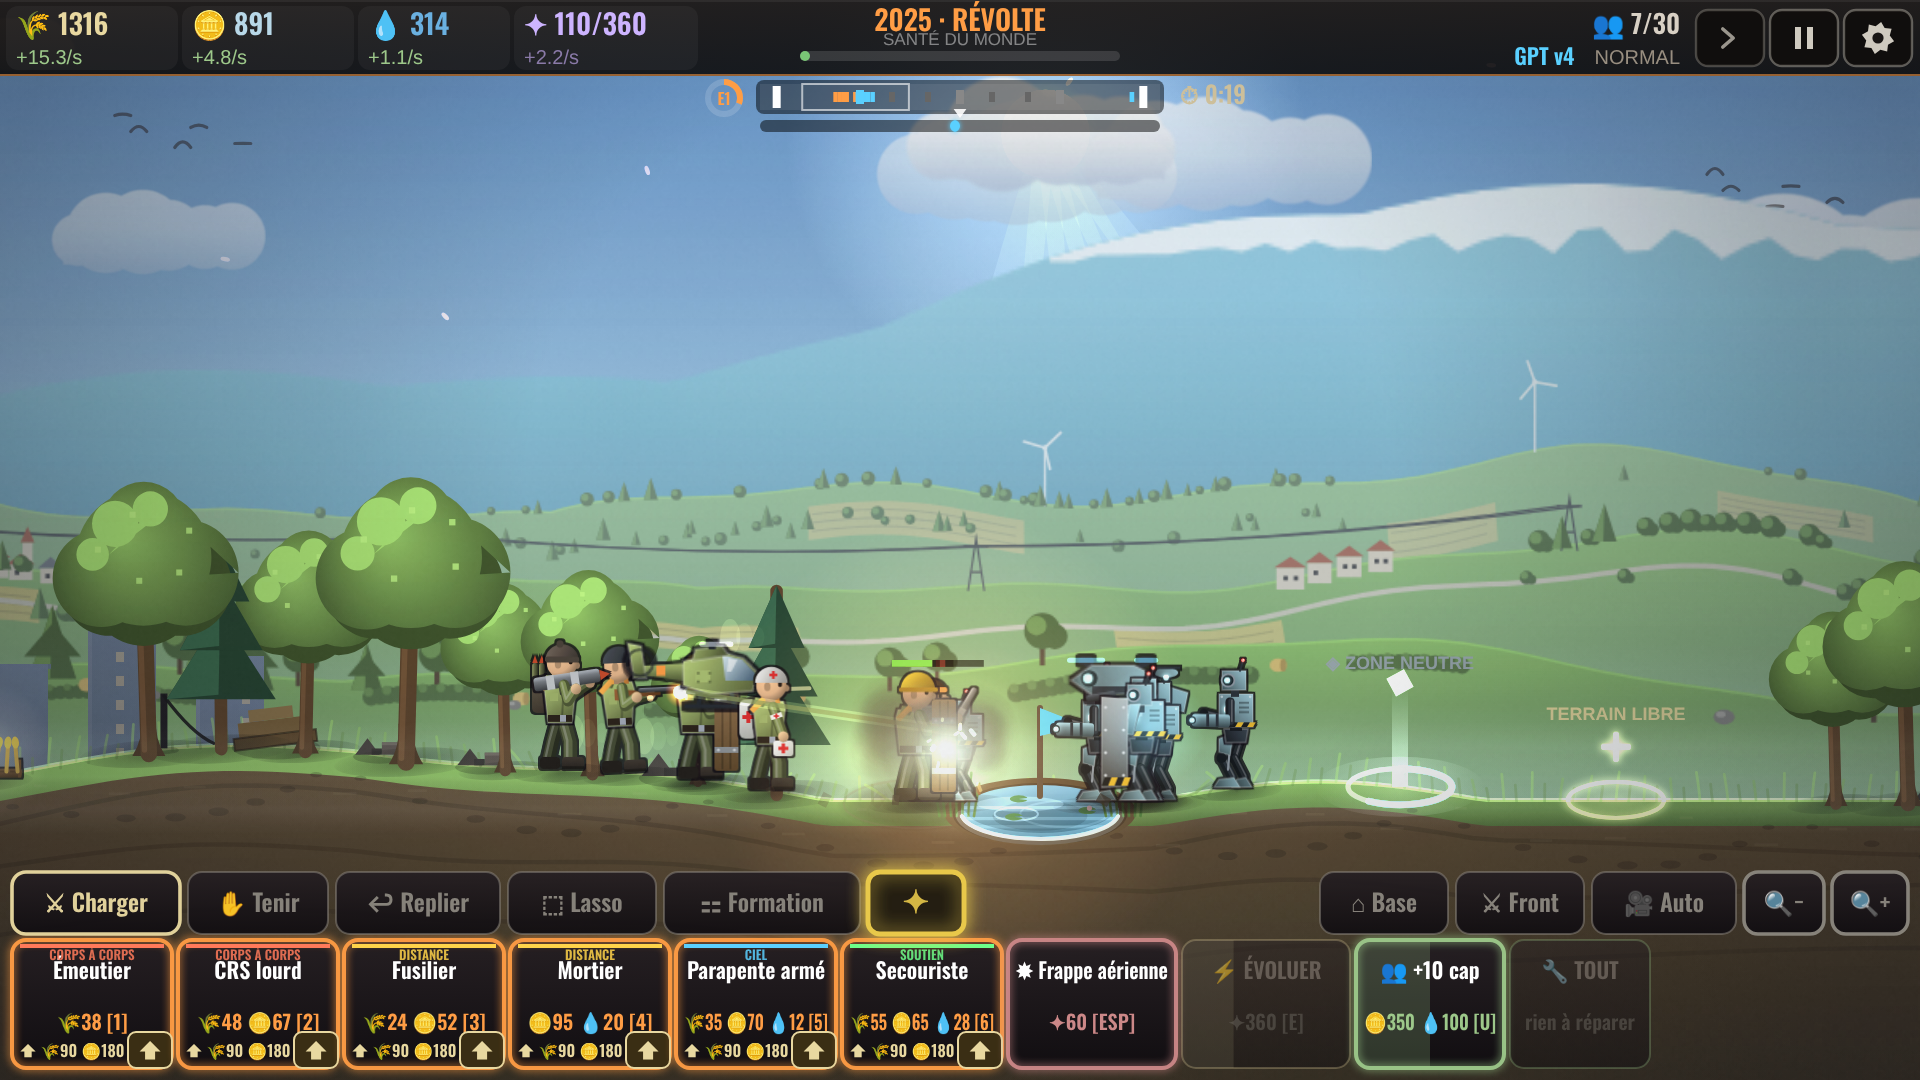
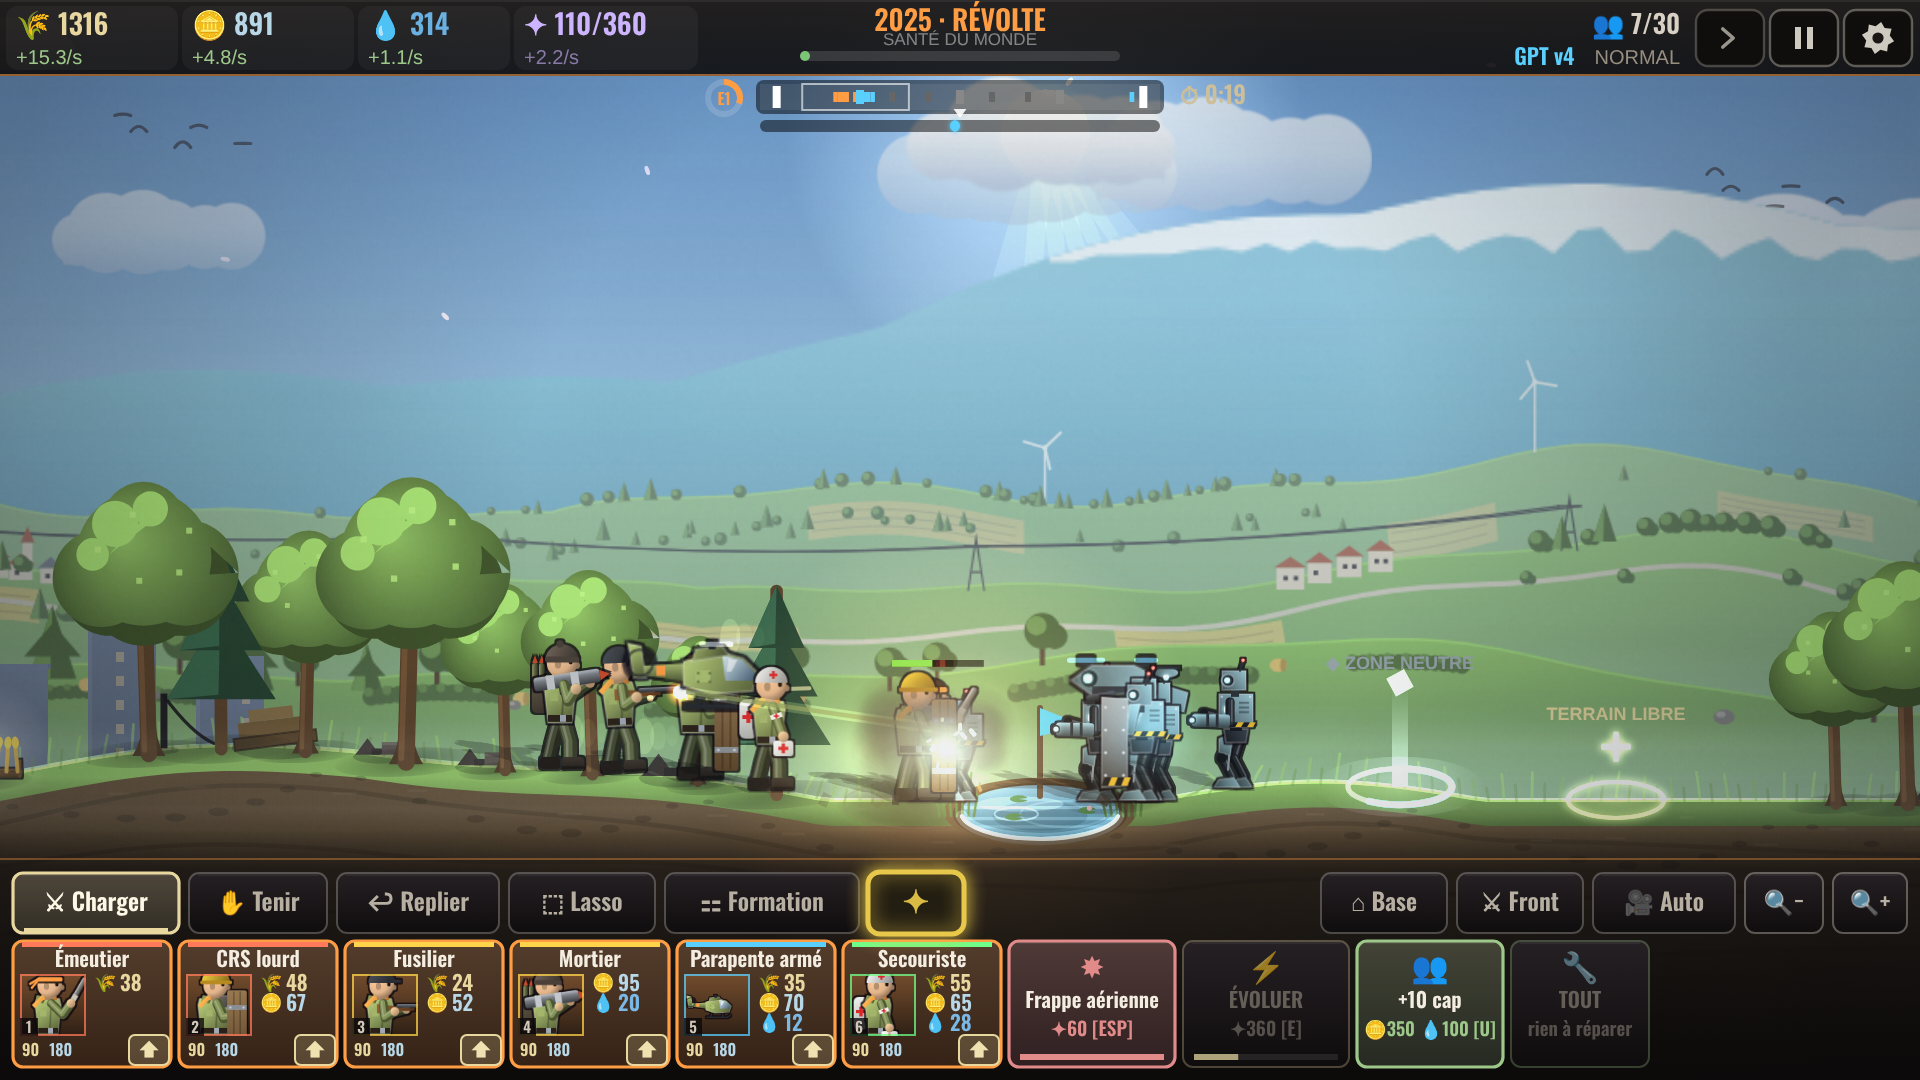
v1.12.0 : console de commandement, ombres, équilibrage des camps, test en ligne de bout en bout
Claude-Session: https://claude.ai/code/session_01FX3Kq1dHJjkC9QhczkYQFK

Changed region(s): [[0.0, 0.7028, 1.0, 1.0], [0.25, 0.6722, 0.375, 0.7333], [0.4062, 0.7028, 0.4688, 0.7333]]

diff --git a/PUBLIER.md b/PUBLIER.md
@@ -168,14 +168,14 @@ Menu **Tester et publier** → **Tests** → **Test fermé** → votre piste →
 3. **Notes de version** :
    ```
    <fr-FR>
-   Nouveau menu : un tract de la Résistance (affiche, fiche de mobilisation, tampon).
-   En jouant G·P·T, tout devient listing d'imprimante. Pause, tutoriel et fin de partie
-   sur papier, nouvelles polices, menu adapté aux téléphones. Corrections d'un audit complet.
+   Nouvelle console de commandement : cartes d'unités avec portrait et coûts détaillés.
+   Ombres portées, bases qui se lézardent. Humanité et G·P·T rééquilibrés, niveau Facile
+   plus accessible. Mode en ligne vérifié de bout en bout.
    </fr-FR>
    <en-US>
-   New menu: a Resistance leaflet (poster, mobilization form, rubber stamp). Playing
-   G·P·T turns everything into a printer listing. Pause, tutorial and end screen on paper,
-   new typefaces, phone-friendly menu. Fixes from a full audit.
+   New command console: unit cards with portraits and detailed costs. Cast shadows,
+   bases that crack under fire. Humanity and G·P·T rebalanced, a gentler Easy level.
+   Online mode verified end to end.
    </en-US>
    ```
 4. **Suivant** → corrigez les éventuels avertissements → **Enregistrer** →

diff --git a/STORE-LISTING.md b/STORE-LISTING.md
@@ -186,6 +186,20 @@ strategy,war,age,evolution,RTS,AI,battle,real time,1v1,tower,era,multiplayer,age
 
 ## 7. Notes de version (exemple — « What's new »)
 ```
+v1.12 — Nouvelle console de commandement, camps rééquilibrés.
+• Cartes d'unités avec le portrait du personnage et le coût par ressource
+• Ombres portées des troupes, bases qui se lézardent sous les coups
+• Humanité et G·P·T à égalité (héros rééquilibrés) ; niveau Facile vraiment facile
+• Mode en ligne vérifié de bout en bout
+```
+```
+v1.12 — New command console, rebalanced sides.
+• Unit cards with the character's portrait and per-resource cost
+• Cast shadows for troops, bases that crack under fire
+• Humanity and G·P·T on equal footing (heroes rebalanced); Easy is truly easy
+• Online mode verified end to end
+```
+```
 v1.11 — Le menu devient un tract de la Résistance.
 • Nouveau menu : affiche imprimée et fiche de mobilisation, cases à cocher, tampon « Entrer en guerre »
 • En jouant G·P·T, tout bascule en listing d'imprimante et panneau lumineux d'Omnicorp
